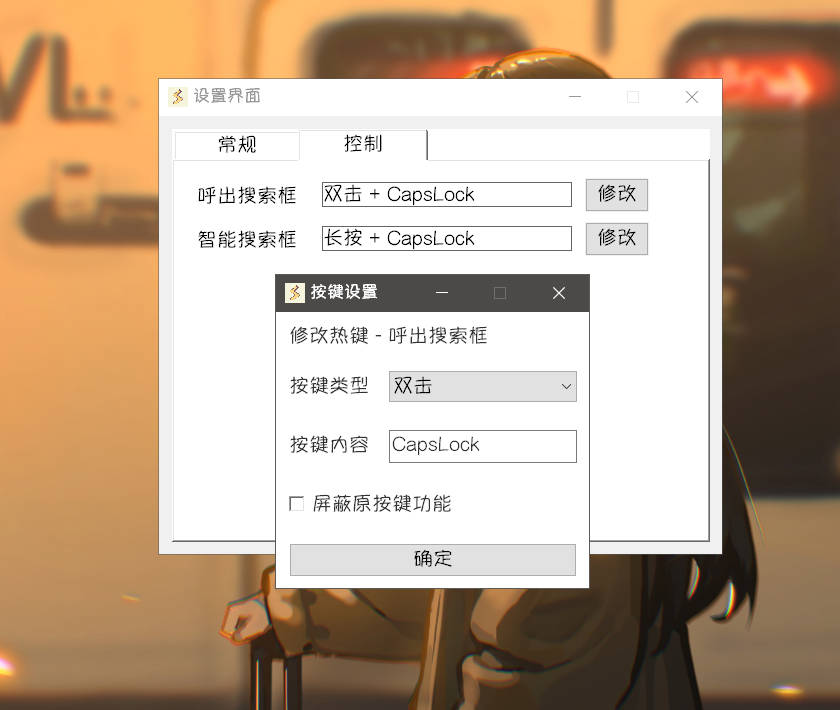
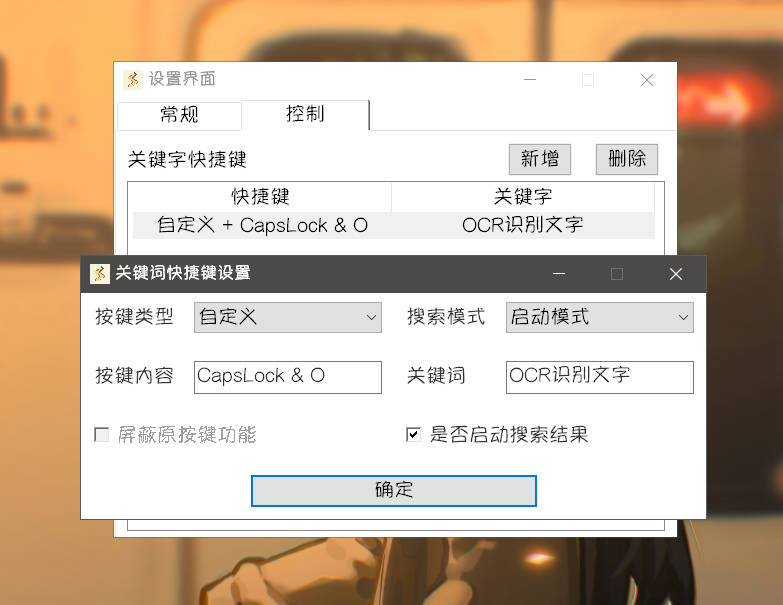
docs(setting): add keywords hotkey

diff --git a/docs/guide/setting/README.md b/docs/guide/setting/README.md
@@ -9,13 +9,13 @@ date: 2023-04-13
 
 ## 常规
 
-![设置界面](../../images/setting-1.jpg)
+![设置界面-常规](../../images/setting-1.jpg)
 
-目前，常规设置仅有**开机自启**开关。
+可通过勾选**开机自启**，修改软件是否开启自启动。
 
-## 控制
+对于其他快捷键类型的设置项目，点击**修改**按钮可以修改对应的功能快捷键。
 
-![设置界面](../../images/setting-2.jpg)
+显示了每个快捷键的**具体内容**，若按键**无效**也会有对应显示。
 
 快捷键设置，点击**修改**按钮可以修改对应的功能快捷键。
 
@@ -63,3 +63,25 @@ date: 2023-04-13
 长按要求第一次键击**按住**时间超过500ms
 :::
 
+
+## 控制
+
+![设置界面-控制](../../images/setting-2.jpg)
+
+- 可以在此处点击按钮来添加、删除**关键词快捷键**
+- 双击列表中任意项可以修改对应**关键词快捷键**
+
+按下关键词快捷键可以快速*以指定模式*搜索*既定的关键词*，并可选**是否启动搜索结果的第一项**。
+
+:::tip
+以截图中的关键词快捷键内容为例：
+
+1. 快捷键为 `CapsLock & O`，即按下`CapsLock` + `O` 快捷键触发
+2. 搜索模式为启动模式
+3. 关键词为“OCR识别文字”
+4. 勾选了启动搜索结果
+
+添加上述关键词快捷键后，就可以通过按下`CapsLock` + `O`快速启动搜索“OCR识别文字”，并启动搜索结果。
+
+由于搜索到的首个结果是**插件启动项**`OCR识别文字`，因此可以实现快捷键启动该插件。
+:::
